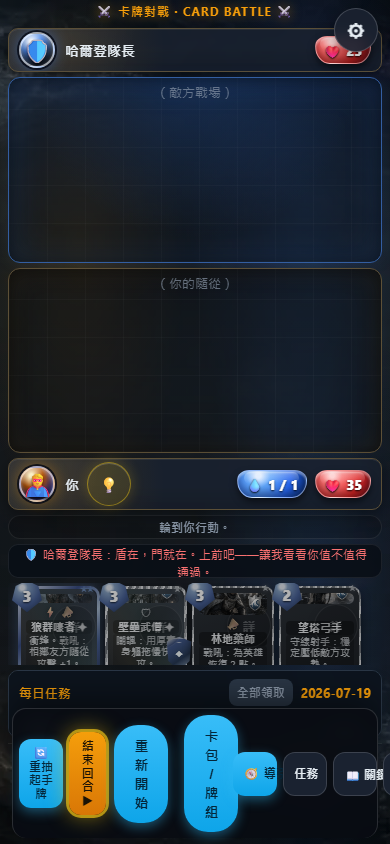
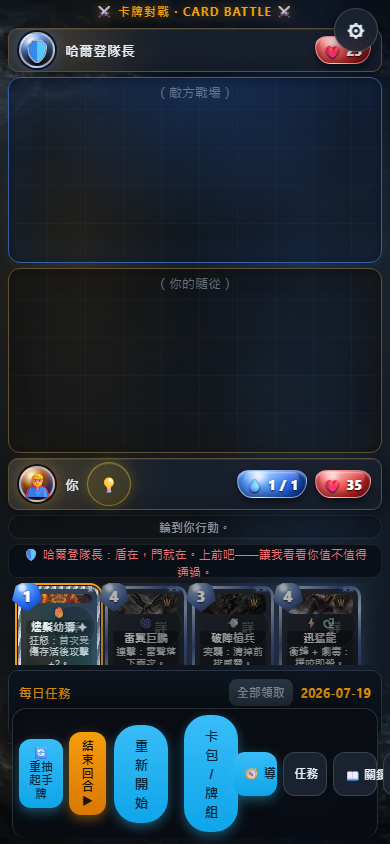
R68.1 辯論裁決 D-02 精簡版：手牌橫捲溢出兩側漸隱 mask 提示（渲染時 rAF 標記 data-overflow，零文字噪音）；test/e2e/rwd 全綠

Changed region(s): [[0.0308, 0.6777, 0.9231, 0.8009], [0.1538, 0.8318, 0.3077, 0.9858]]

diff --git a/templates/card-battle/index.html b/templates/card-battle/index.html
@@ -831,6 +831,11 @@
     }
     .hand-drawer-toggle strong { color:#facc15; font-size:15px; }
     .hand-drawer-toggle .hand-state { color:var(--muted); font-size:11px; }
+    /* R68.1（辯論裁決 D-02 精簡版）：手牌橫捲溢出時兩側漸隱提示（零文字噪音） */
+    .hand[data-overflow="true"] {
+      -webkit-mask-image: linear-gradient(90deg, transparent 0, #000 18px, #000 calc(100% - 18px), transparent 100%);
+      mask-image: linear-gradient(90deg, transparent 0, #000 18px, #000 calc(100% - 18px), transparent 100%);
+    }
     .hand {
       flex: 1 1 auto; min-height: 0; max-height: none; width: 100%; justify-content: flex-start;
       flex-wrap: nowrap; overflow-x: auto; overflow-y: hidden; overscroll-behavior-x: contain;

diff --git a/templates/card-battle/battle.js b/templates/card-battle/battle.js
@@ -2105,6 +2105,7 @@
     renderField("enemyField", game.enemy.field, "enemy");
 
     const hand = document.getElementById("playerHand");
+    requestAnimationFrame(() => { hand.dataset.overflow = hand.scrollWidth > hand.clientWidth + 4 ? "true" : "false"; });
     const handFrag = document.createDocumentFragment();
     game.player.hand.forEach((card) => {
       const el = renderCard(card);
